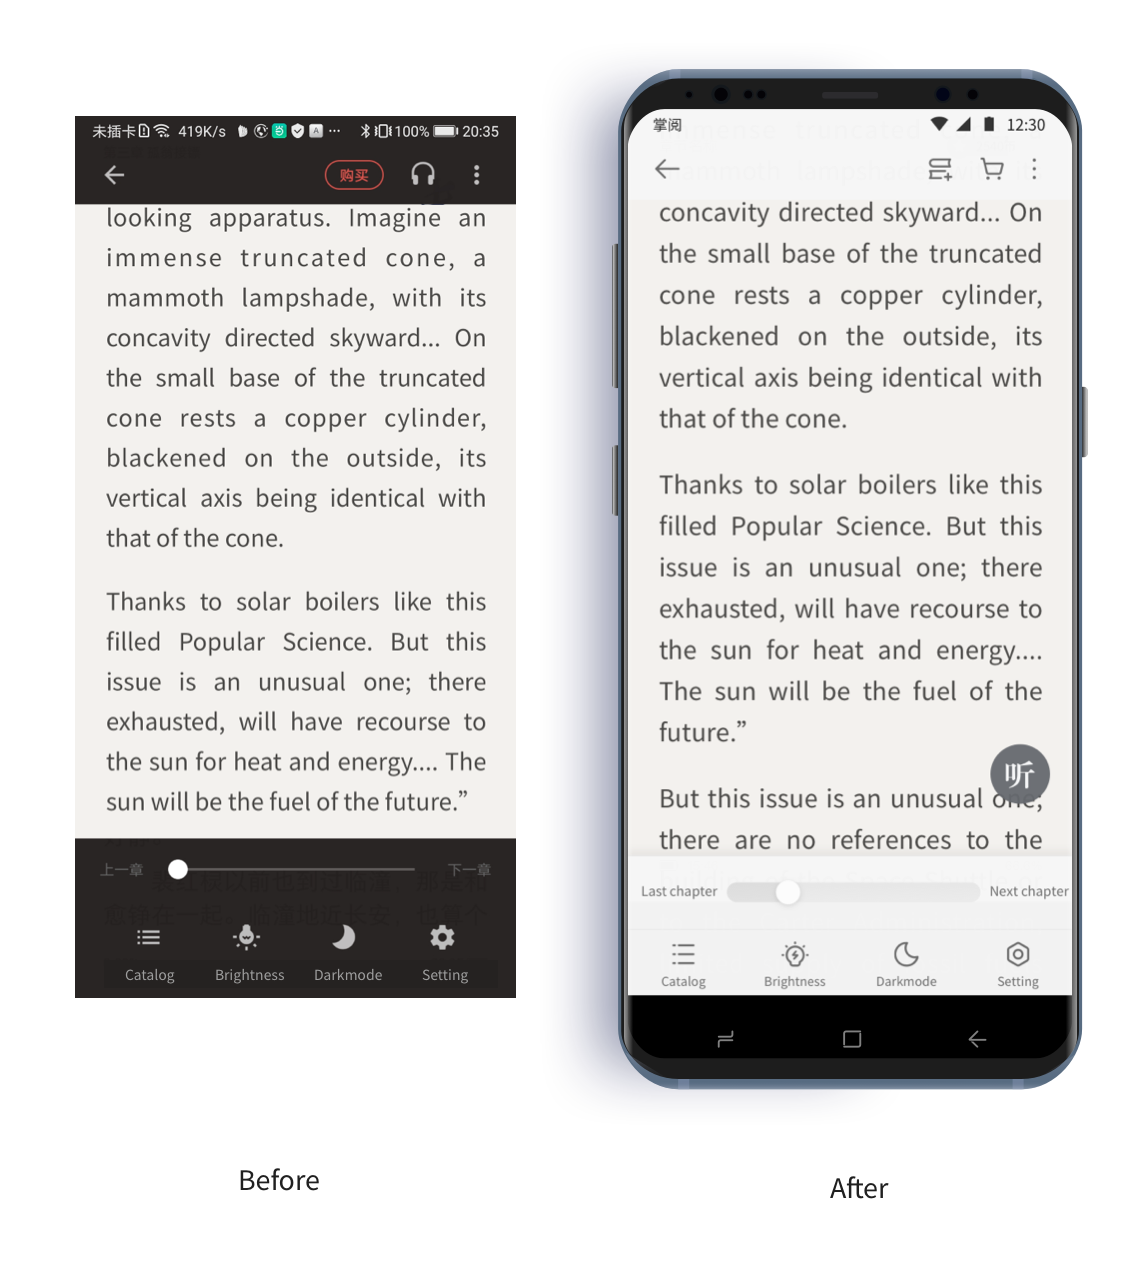
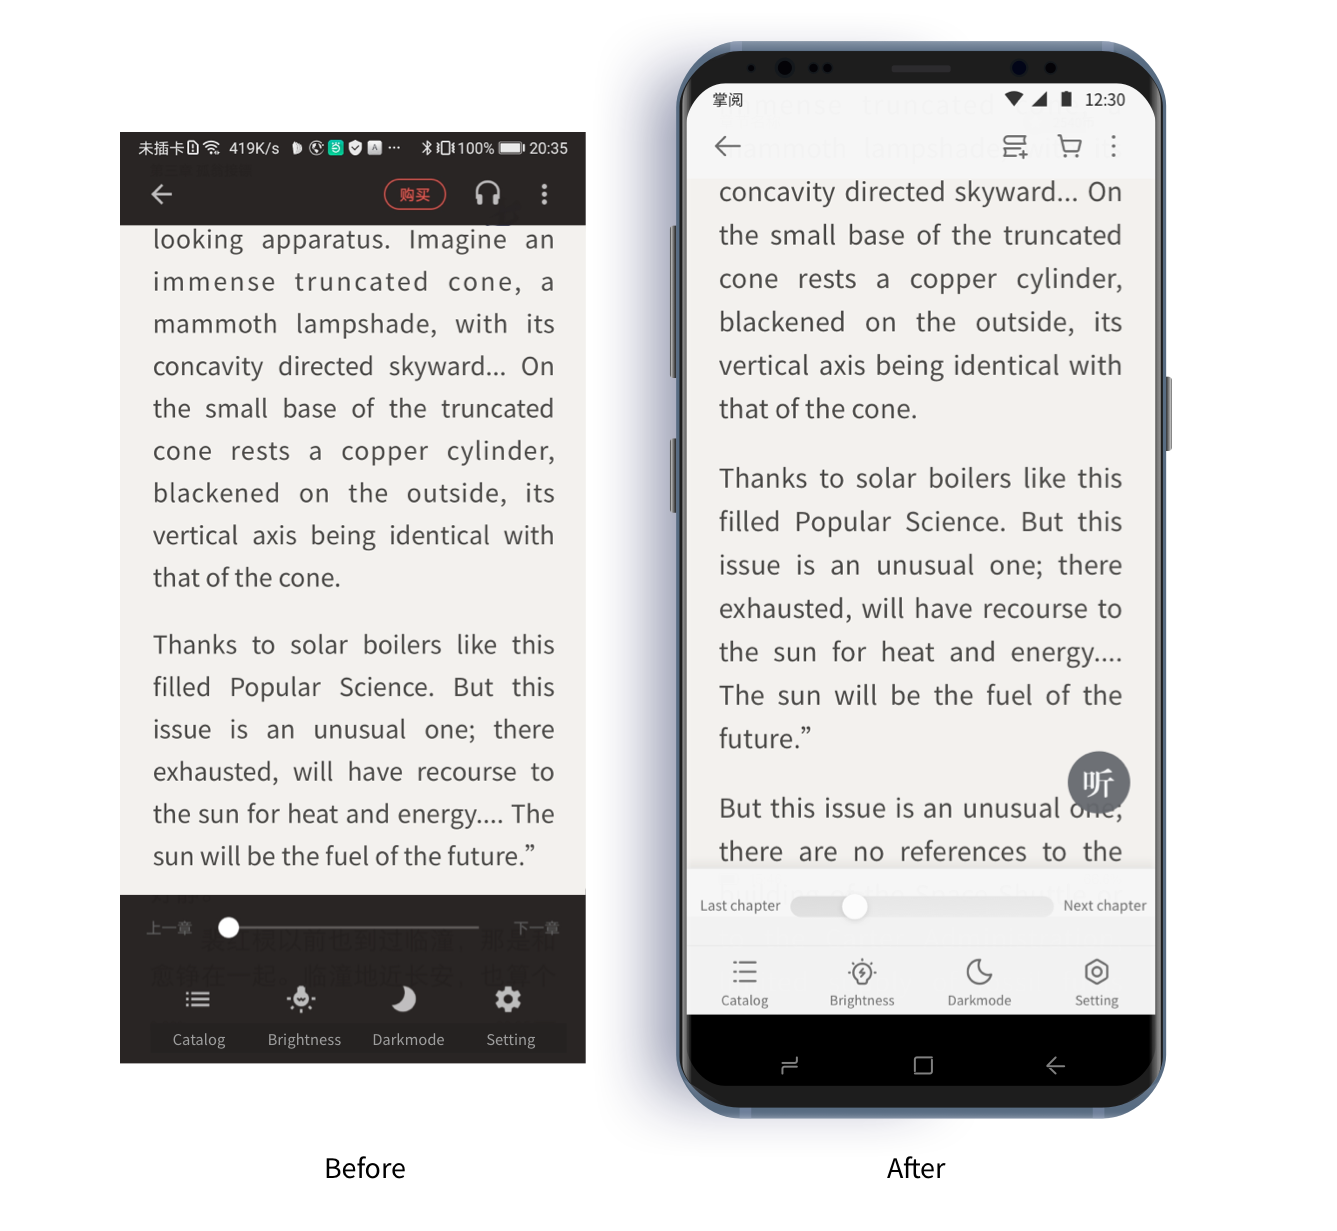
tts updated

diff --git a/projects/tts.html b/projects/tts.html
@@ -53,7 +53,7 @@
 
     <div class="container mt100">
         <section class="text-content">
-            <br>
+            <!-- <h1>A Frictionless listening flow for book listeners</h1> -->
             <br>
             <br>
             <p class="text-emphasize">iReader is a TOP1 online reading
@@ -148,8 +148,7 @@
             <!-- <p class="text-emphasize">listeners can not perform reading related actions while using
                 TTS</p> -->
             <p>As lead designer in the team, it was my responsibility to enhance user engagement and identify product
-                opportunities. We discovered the low usage rate for TTS and wired data pattern for constantly quit and
-                restart.
+                opportunities.
                 Also, the feedback we received from our users was they could not perform various actions while using
                 TTS. In addition, we think the exsiting visual was outdated and dark.</p>
             <br>
@@ -250,7 +249,7 @@
             <p class="text-emphasize">What suprise me from existing data is that...</p>
         </section>
         <div class="text-center">
-            <img src="../assets/img/tts/2.png" width="1200px" class="img-fluid" alt="...">
+            <img src="../assets/img/tts/2.png" width="1000px" class="img-fluid" alt="...">
         </div>
         <br>
 
@@ -545,6 +544,8 @@
     <!-- Solution 2 Improvement-->
 
     <!-- Finalized Design -->
+
+
     <div class="container">
         <section class="text-content">
             <h1>Finalized Design</h1>
@@ -554,8 +555,10 @@
     <!-- Improvment 1-->
     <div class="container mb-30">
         <section class="text-content">
-            <p class="text-emphasize">Enhance and move TTS entry point from top to bottom, redesign default UI
-                background</p>
+            <p class="text-emphasize">Enhance and move TTS entry point from top to bottom</p>
+            <p>Listeners now reach and start TTS easily.
+                We also redesign to a light grey setting background color to enhance visibility.
+            </p>
         </section>
     </div>
     <div class="text-center">
@@ -563,18 +566,22 @@
     </div>
     <br>
 
+
+
     <!-- Improvment 2-->
     <div class="container mb-30">
         <section class="text-content">
-            <p class="text-emphasize">Redesign user flow when listening, allow users multitask
-                without quitting</p>
+            <p class="text-emphasize">Frictionless listening flow</p>
+            <p>Users now can multitasking
+                without quitting listening. These feature will allow users explore and discover content.
+            </p>
         </section>
     </div>
     <br>
     <br>
 
     <div class="text-center">
-        <img src="../assets/img/tts/9.gif" width="400px" class="img-fluid" alt="...">
+        <img src="../assets/img/tts/9.gif" width="350px" class="img-fluid" alt="...">
     </div>
     <br>
     <br>
@@ -583,7 +590,9 @@
     <!-- Improvment 3-->
     <div class="container mb-30">
         <section class="text-content">
-            <p class="text-emphasize">Change control setting from module into entire page</p>
+            <p class="text-emphasize">Change control setting into entire page</p>
+            <p> Fainding a flow fits users' mental modal and provide more books to discover.
+            </p>
         </section>
     </div>
     <br>
@@ -597,6 +606,8 @@
     <div class="container mb-30">
         <section class="text-content">
             <p class="text-emphasize">Reorganize the options in voice change section</p>
+            <p> Regroup voice options to enhance efficiency.
+            </p>
         </section>
     </div>
     <div class="text-center">
